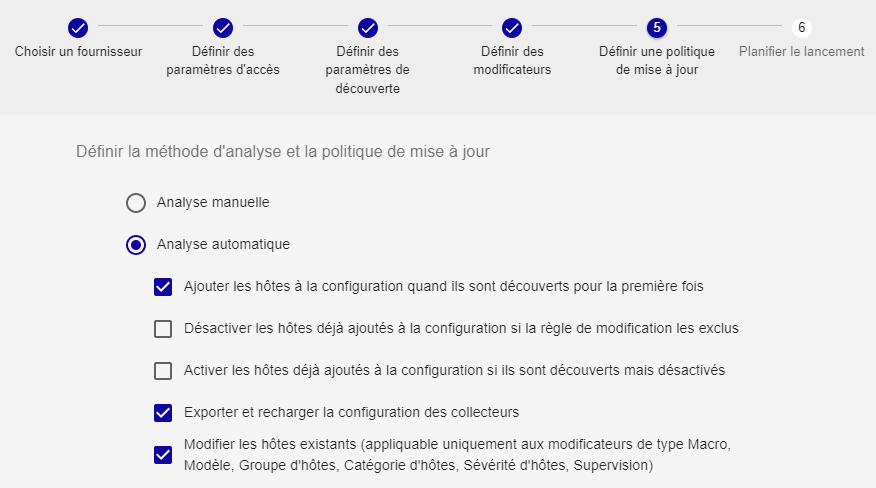
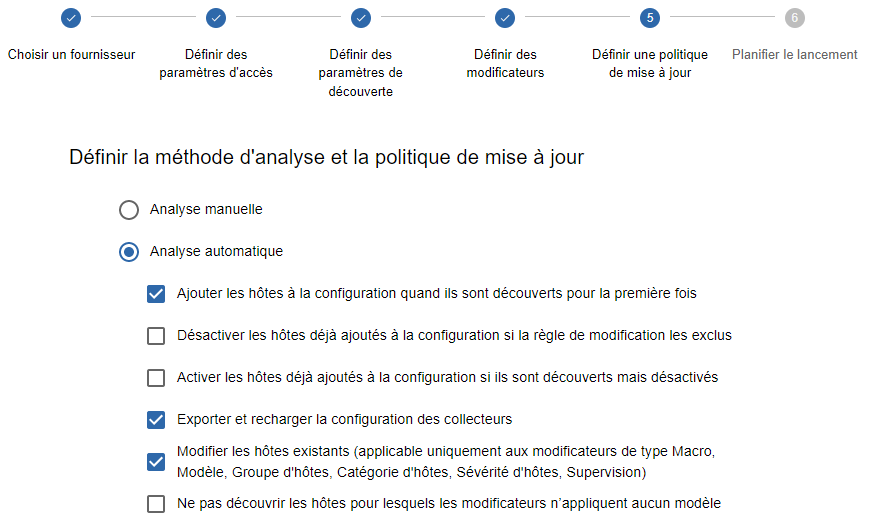
New option in autodiscovery

diff --git a/i18n/fr/docusaurus-plugin-content-docs/version-22.10/monitoring/discovery/hosts-discovery.md b/i18n/fr/docusaurus-plugin-content-docs/version-22.10/monitoring/discovery/hosts-discovery.md
@@ -88,9 +88,11 @@ Pour plus d'informations voir la section [Analyser le résultat d'une tâche de 
 
     - **Modifier les hôtes existants** : si vous effectuez des changements sur les modificateurs et exéctuez la tâche à nouveau, les hôtes existants seront mis à jour (voir [Éditer une tâche de découverte](#éditer-une-tâche-de-découverte)).
 
-        ![image](../../assets/monitoring/discovery/host-discovery-wizard-step-5-2.png)
+    - **Ne pas découvrir les hôtes pour lesquels les modificateurs n'appliquent aucun modèle**: si les modificateurs n'appliquent aucun modèle à certains hôtes, alors ceux-ci ne seront pas inclus dans les résultats de la découverte. Si la case est décochée, le modèle par défaut sera appliqué à ces hôtes et ils seront découverts.
 
-        Voir l'[exemple ci-dessous](#exemples) pour mieux comprendre le fonctionnement des 3 premières options.
+    ![image](../../assets/monitoring/discovery/host-discovery-wizard-step-5-2.png)
+
+    Voir l'[exemple ci-dessous](#exemples) pour mieux comprendre le fonctionnement des 3 premières options.
 
 ### Étape 6 : Définir l'exécution
 

diff --git a/versioned_docs/version-22.10/monitoring/discovery/hosts-discovery.md b/versioned_docs/version-22.10/monitoring/discovery/hosts-discovery.md
@@ -75,6 +75,7 @@ discovery results could look like:
   - **Enable hosts already added to configuration if they are discovered but disabled**: hosts that have already been added to the configuration but are in a disabled state will be enabled again.
   - **Export and reload pollers configuration**: once the hosts have been created or updated, the [configuration will be deployed](../monitoring-servers/deploying-a-configuration.md) automatically, which means that the hosts will be monitored or updated immediately, without any need for manual action.
   - **Update existing hosts**: if you modify the mappers and run the job again, existing hosts will be updated (see [Edit a discovery job](#edit-a-discovery-job)).
+  - **Do not discover hosts for which mappers apply no template**: if mappers don't apply any template to some hosts, these hosts will not be included in the discovery results. If the box is unchecked, the default template will be applied to these hosts and they will be discovered.
 
   ![image](../../assets/monitoring/discovery/host-discovery-wizard-step-5-2.png)
 
